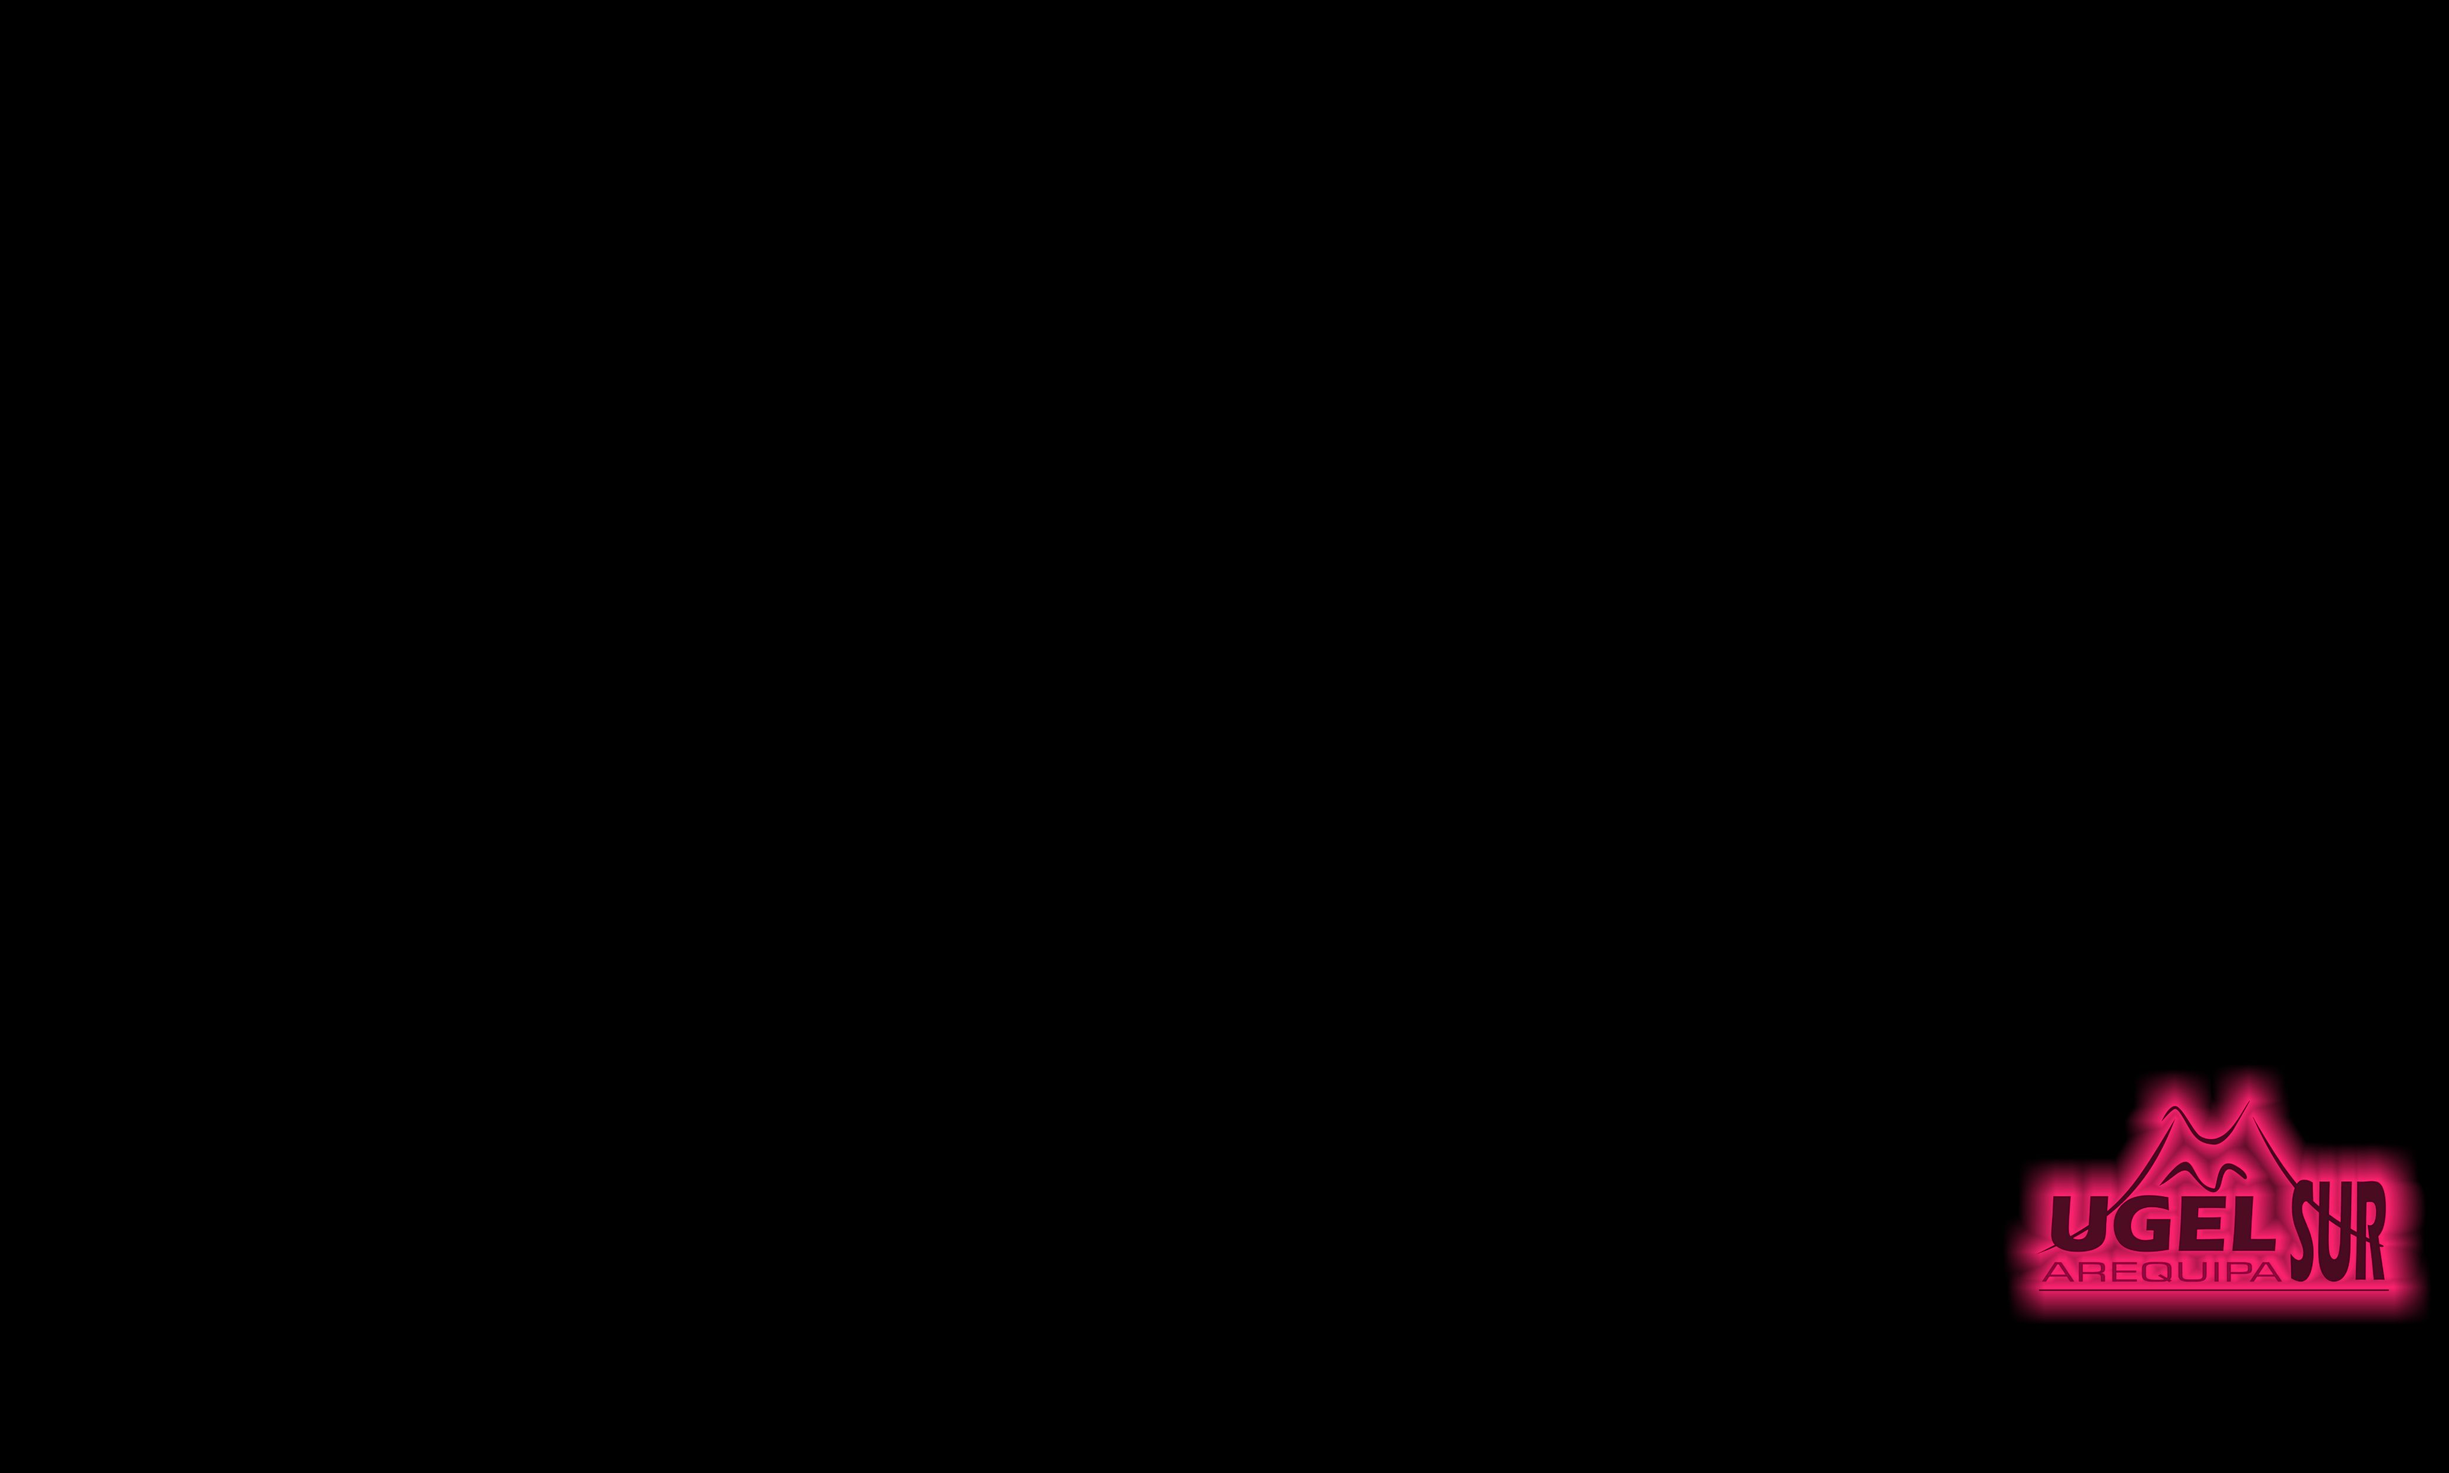
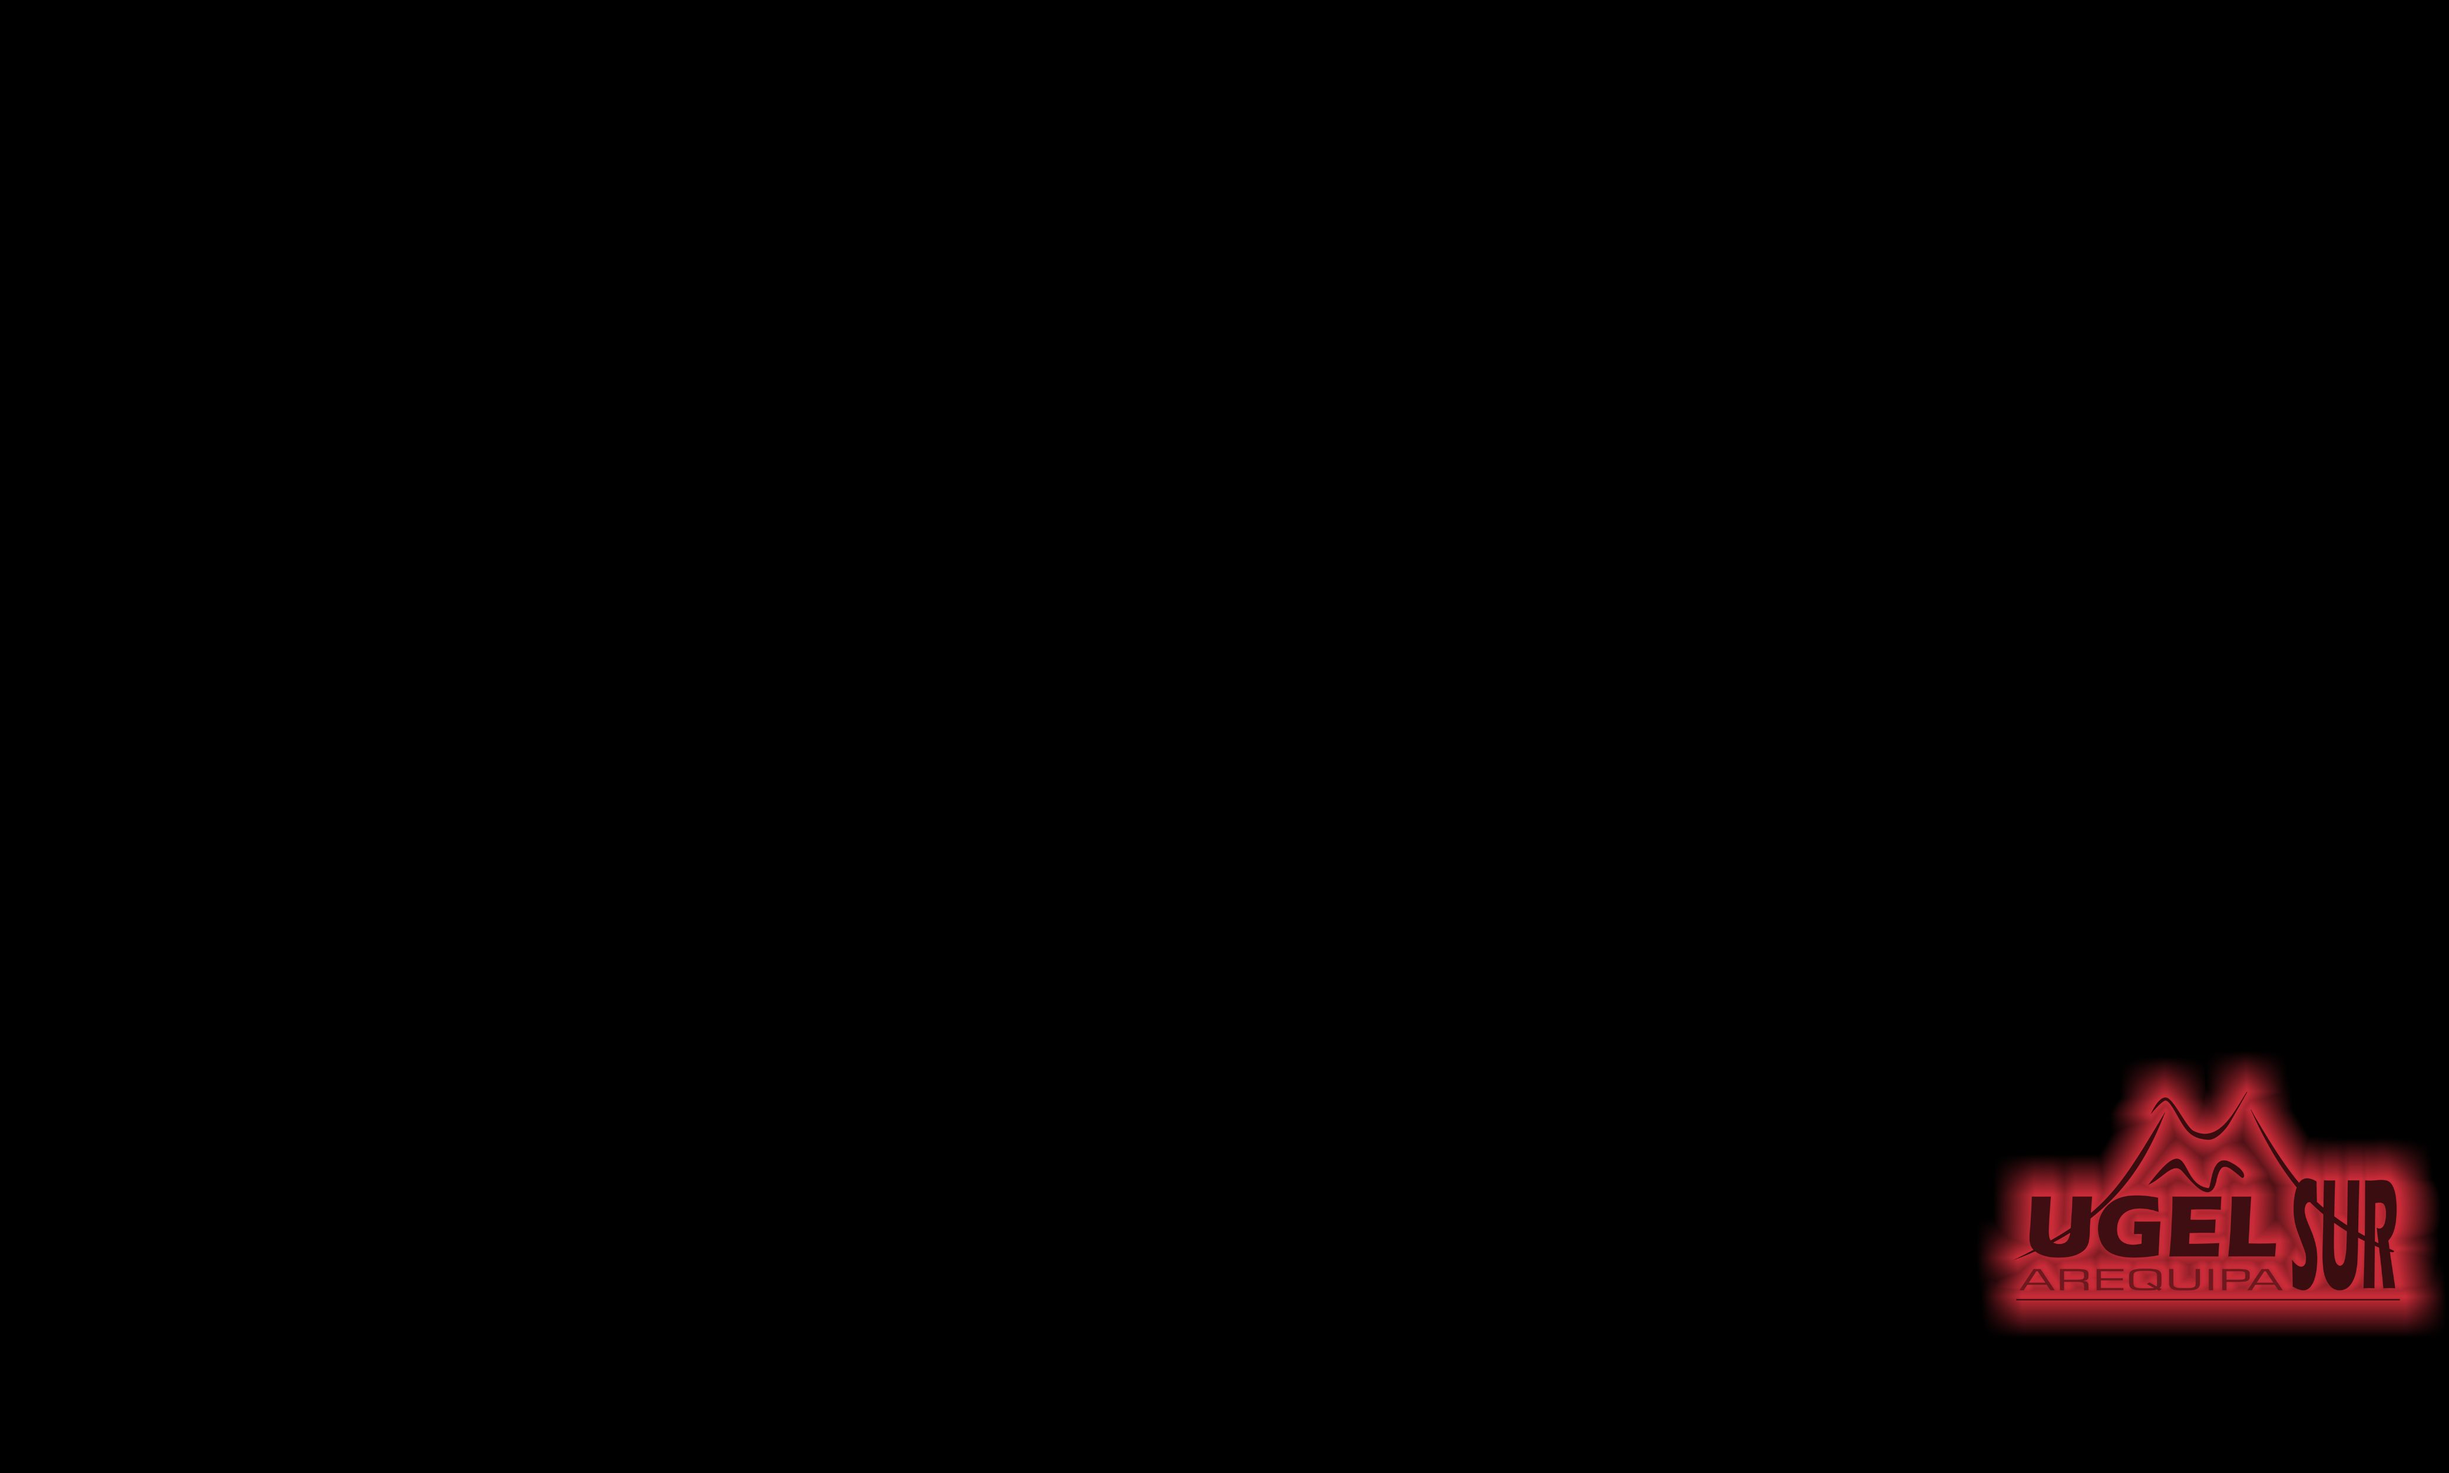
03/10/2024
mas css

Changed region(s): [[0.8066, 0.7173, 1.0, 0.9044]]

diff --git a/Pagina AC/styles/stylesheet.css b/Pagina AC/styles/stylesheet.css
@@ -20,8 +20,8 @@ body {
     position: relative;
     width: 750px;
     height: 450px;
-    border: 2px solid #ff2770;
-    box-shadow: 0 0 25px #ff2770;
+    border: 2px solid #cf2d3a;
+    box-shadow: 0 0 25px #cf2d3a;
     overflow: hidden;
     z-index: 10; /* Asegura que el formulario esté en una capa superior */
     background: rgba(0, 0, 0, 0.8); /* Agrega un fondo semi-transparente para el formulario */
@@ -97,7 +97,7 @@ body {
 }
 .input-box input:focus,
 .input-box input:valid{
-    border-bottom: 2px solid #ff2770;
+    border-bottom: 2px solid #cf2d3a;
 }
 .input-box label{
     position: absolute;
@@ -112,7 +112,7 @@ body {
 .input-box input:focus ~ label,
 .input-box input:valid ~ label{
     top: -5px;
-    color: #ff2770;
+    color: #cf2d3a;
 }
 .input-box i{
     position:absolute ;
@@ -124,7 +124,7 @@ body {
 }
 .input-box input:focus ~ i,
 .input-box input:valid ~ i{
-    color:#ff2770;
+    color:#cf2d3a;
 }
 .btn{
     position: relative;
@@ -135,7 +135,7 @@ body {
     cursor: pointer;
     font-size: 16px;
     font-weight: 600;
-    border: 2px solid #ff2770;
+    border: 2px solid #cf2d3a;
     overflow: hidden;
     z-index: 1;
 }
@@ -144,7 +144,7 @@ body {
     position: absolute;
     height: 300%;
     width: 100%;
-    background: linear-gradient(#25252b,#ff2770,#25252b,#ff2770);
+    background: linear-gradient(#25252b,#cf2d3a,#25252b,#cf2d3a);
     top: -100%;
     left: 0;
     z-index: -1;
@@ -160,7 +160,7 @@ body {
 }
 .regi-link a{
     text-decoration: none;
-    color: #ff2770;
+    color: #cf2d3a;
     font-weight: 600;
 
 }
@@ -233,7 +233,7 @@ body {
     top: -5px;
     height: 600px;
     width: 850px;
-    background: linear-gradient(45deg, #25252b,#ff2770);
+    background: linear-gradient(45deg, #25252b,#cf2d3a);
     /**transform: rotate(10deg) skewY(40deg)*/
     transform: rotate(10deg) skewY(40deg);
     transform-origin: bottom right;
@@ -251,7 +251,7 @@ body {
     height: 700px;
     width: 850px;
     background: #25252b;
-    border-top: 3px solid #ff2770;
+    border-top: 3px solid #cf2d3a;
     transform: rotate(0deg) skewY(0deg);
     transform-origin: bottom left;
     transition: 1.5s ease;

diff --git a/Pagina AC/mirar/mirar.html b/Pagina AC/mirar/mirar.html
@@ -1,0 +1,38 @@
+<!DOCTYPE html>
+<html lang="es">
+<head>
+    <meta charset="UTF-8">
+    <meta name="viewport" content="width=device-width, initial-scale=1.0">
+    <title>Mira tus Documentos</title>
+</head>
+<body>
+
+    <header class="header">
+        <div class="container">
+            <div class="menu">
+                <div class="logo">Control Patrimonial</div>
+                <nav class="navbar">
+                    <ul>
+                        <li><a href="/A.C-Asset-Control-/Pagina%20AC/paginaweb/index.html#">Inicio</a></li>
+                        <li><a href="#">Mira tus documentos</a></li>
+                        <li><a href="/A.C-Asset-Control-/Pagina%20AC/subir/formulario.html">Sube tus documentos</a></li>
+                        <li><a href="#">Pendientes</a></li>
+                        <li><a href="#">Emitidos</a></li>
+                    </ul>
+                </nav>
+            </div>
+        </div>
+    </header>
+
+    <!-- Fin del header -->
+
+    <div class="documentos-recibidos" style="text-align: center; color: red; font-size: 24px;">
+        Aquí podrás visualizar los documentos recibidos.
+    </div>
+
+    <div class="content">
+        <!-- Aquí se podrá agregar el contenido para mostrar los documentos -->
+    </div>
+
+</body>
+</html>

diff --git a/Pagina AC/paginaweb/index.html b/Pagina AC/paginaweb/index.html
@@ -150,12 +150,13 @@
         <div class="footer-txt">
             <h3>Equipo de desarrollo:</h3>
             <ul class="equipo-list">
-                <li>Elvis Huamani Condori</li>
+                <li>Adriano David Gonzales Palomino</li>
                 <li>Rodrigo Alonso Chavez Montecillo</li>
                 <li>Marx Emil Cruz Cabrera</li>
                 <li>Branco Faviano Grau Quispe</li>
                 <li>Jean Pieer Luna Cancapa</li>
                 <li>Danylo Pavel Zuñiga Cahuana</li>
+                <li>Proyect Manager y MVP: Elvis Huamani Condori</li>
             </ul>
         </div>
         
